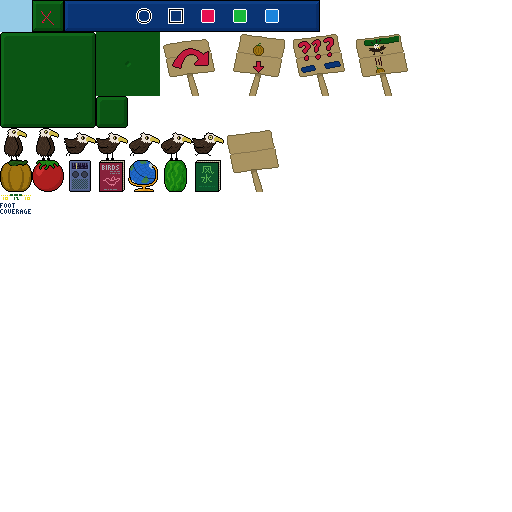
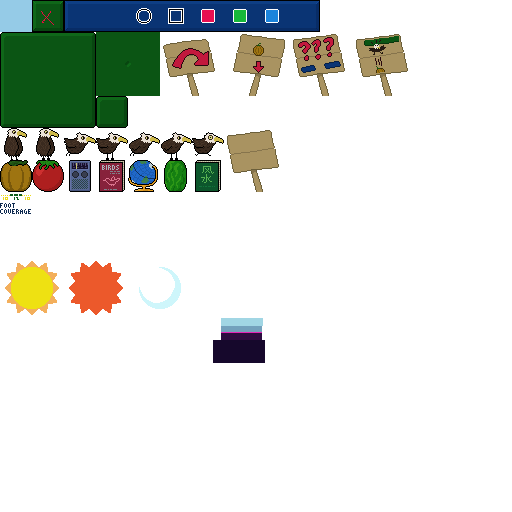
pretty astronomical phenomena

Changed region(s): [[0.0, 0.5, 0.375, 0.625], [0.4062, 0.5938, 0.5312, 0.7188]]

diff --git a/src/game/sky.c b/src/game/sky.c
@@ -1,0 +1,145 @@
+#include "iggle.h"
+#include "sky.h"
+
+#define SKY_DAY_RATE (1/500.0) /* day/sec. I want it possible to finish before sunset, if you push it. 500 = Sunset around 3:15, just beatable. */
+#define SUN_SPIN_RATE 2.0 /* rad/sec */
+
+/* Initialize star.
+ */
+ 
+static void star_init(struct star *star) {
+  star->x=rand()%FBW;
+  star->y=rand()%FBH;
+  // Pick a random time range in 1/256 of night.
+  int vlen=20+(rand()&0x7f);
+  int vp=rand()%(256-vlen);
+  star->ta=0.5+(double)vp/512.0;
+  star->fa=star->ta+0.005;
+  star->tz=0.5+(double)(vp+vlen)/512.0;
+  star->fz=star->tz-0.005;
+}
+
+/* Init.
+ */
+ 
+void sky_init(struct sky *sky) {
+  sky->dayp=0.100; // Start a little after sunrise.
+  struct star *star=sky->starv;
+  int i=STAR_COUNT;
+  for (;i-->0;star++) star_init(star);
+}
+
+/* Update.
+ */
+ 
+void sky_update(struct sky *sky,double elapsed) {
+
+  sky->dayp+=elapsed*SKY_DAY_RATE;
+  if (sky->dayp>=1.0) sky->dayp-=1.0;
+  
+  sky->sunt+=elapsed*SUN_SPIN_RATE;
+  if (sky->sunt>=M_PI) sky->sunt-=M_PI*2.0;
+}
+
+/* Sky color for a normalized time of day.
+ */
+ 
+static uint32_t sky_color(double p) {
+
+  // First, convert to 0..1=midnight..noon. We don't care which half we're in.
+  if (p>=0.75) p-=0.75;
+  else if (p>=0.25) p=0.75-p;
+  else p+=0.25;
+  p*=2.0;
+  
+  // Then apply this one-dimensional gradient:
+  const struct gstop { double p,r,g,b; } gstopv[]={
+    {0.000,0.251,0.169,0.384}, // midnight
+    {0.470,0.302,0.294,0.545}, // night
+    {0.500,0.753,0.506,0.753}, // daybreak
+    {0.530,0.451,0.631,0.737}, // day
+    {1.000,0.631,0.839,0.894}, // noon
+  };
+  const int gstopc=sizeof(gstopv)/sizeof(gstopv[0]);
+  const struct gstop *lo=gstopv+gstopc-1;
+  const struct gstop *hi=lo;
+  int i=0; for (;i<gstopc;i++) {
+    if (p<gstopv[i].p) {
+      hi=gstopv+i;
+      if (i) lo=hi-1; else lo=hi;
+      break;
+    }
+  }
+  double r,g,b;
+  if (lo==hi) { // At noon or midnight, we might have only a single endpoint.
+    r=lo->r;
+    g=lo->g;
+    b=lo->b;
+  } else { // Normally, we have (gstopp) as the low bound and (gstopp+1) as the high bound.
+    double hiweight=(p-lo->p)/(hi->p-lo->p);
+    if (hiweight<0.0) hiweight=0.0;
+    else if (hiweight>1.0) hiweight=1.0;
+    double loweight=1.0-hiweight;
+    r=lo->r*loweight+hi->r*hiweight;
+    g=lo->g*loweight+hi->g*hiweight;
+    b=lo->b*loweight+hi->b*hiweight;
+  }
+
+  // Finally, quantize and pack.
+  int ri=(int)(r*255.0); if (ri<0) ri=0; else if (ri>0xff) ri=0xff;
+  int gi=(int)(g*255.0); if (gi<0) gi=0; else if (gi>0xff) gi=0xff;
+  int bi=(int)(b*255.0); if (bi<0) bi=0; else if (bi>0xff) bi=0xff;
+  return (ri<<24)|(gi<<16)|(bi<<8)|0xff;
+}
+
+/* Sun or moon's position in screen pixels, from dayp in 0..1/2.
+ * Returns the center of the body.
+ */
+ 
+static void sky_get_sun_position(int *x,int *y,double p) {
+  // Have them follow a circular path (deasil), diameter a bit less than the screen width, and offset down so the vertical center is well off-screen.
+  double t=p*M_PI*2.0;
+  double r=(FBW-(NS_sys_tilesize<<1))*0.5;
+  *x=(FBW>>1)+(int)(cos(t)*r);
+  *y=FBH+(NS_sys_tilesize)-(int)(sin(t)*r);
+}
+
+/* Render.
+ */
+ 
+void sky_render(struct sky *sky) {
+
+  /* Background.
+   */
+  graf_draw_rect(&g.graf,0,0,FBW,FBH,sky_color(sky->dayp));
+  
+  /* Stars.
+   */
+  if (sky->dayp>=0.500) {
+    const uint32_t stargb=0xffff0000;
+    struct star *star=sky->starv;
+    int i=STAR_COUNT;
+    for (;i-->0;star++) {
+      if (sky->dayp<=star->ta) continue;
+      if (sky->dayp>=star->tz) continue;
+      uint8_t alpha=0xff;
+      if (sky->dayp<star->fa) { // fade in
+        alpha=(int)((255.0*(sky->dayp-star->ta))/(star->fa-star->ta));
+      } else if (sky->dayp>star->fz) { // fade out
+        alpha=(int)((255.0*(star->tz-sky->dayp))/(star->tz-star->fz));
+      }
+      graf_draw_rect(&g.graf,star->x,star->y,1,1,stargb|alpha);
+    }
+  }
+  
+  /* Sun or moon.
+   */
+  if (sky->dayp>=0.500) {
+    int dstx,dsty; sky_get_sun_position(&dstx,&dsty,sky->dayp-0.500);
+    graf_draw_decal(&g.graf,g.texid_tiles,dstx-NS_sys_tilesize,dsty-NS_sys_tilesize,NS_sys_tilesize*4,NS_sys_tilesize*8,NS_sys_tilesize*2,NS_sys_tilesize*2,0);
+  } else {
+    int dstx,dsty; sky_get_sun_position(&dstx,&dsty,sky->dayp);
+    graf_draw_mode7(&g.graf,g.texid_tiles,dstx,dsty,NS_sys_tilesize*2,NS_sys_tilesize*8,NS_sys_tilesize*2,NS_sys_tilesize*2,1.0,1.0,-sky->sunt,1);
+    graf_draw_mode7(&g.graf,g.texid_tiles,dstx,dsty,0,NS_sys_tilesize*8,NS_sys_tilesize*2,NS_sys_tilesize*2,1.0,1.0,sky->sunt,1);
+  }
+}

diff --git a/src/game/iggle_play.c b/src/game/iggle_play.c
@@ -1,4 +1,5 @@
 #include "iggle.h"
+#include "sky.h"
 
 /* On completion, it has to actually *stay* complete for so long.
  */
@@ -12,6 +13,7 @@ struct play {
   int cmdc;
   double complete_clock;
   double play_time; // For scoring purposes. All levels.
+  struct sky sky;
 } play={0};
 
 /* End.
@@ -25,6 +27,7 @@ void play_end() {
  
 int play_begin() {
   memset(&play,0,sizeof(play));
+  sky_init(&play.sky);
   int mapid=1;
   if (g.advance_to_last_map) mapid=g.last_map_id;
   if (play_load_map(mapid)<0) return -1;
@@ -68,6 +71,7 @@ static int play_is_complete() {
  */
  
 void play_update(double elapsed,int input,int pvinput) {
+  sky_update(&play.sky,elapsed);
 
   if ((input&EGG_BTN_AUX1)&&!(pvinput&EGG_BTN_AUX1)) {
     play_load_map(play.mapid);
@@ -124,7 +128,8 @@ void play_render() {
 
   /* Background.
    */
-  graf_draw_rect(&g.graf,0,0,FBW,FBH,0x80a0c0ff);
+  sky_render(&play.sky);
+  //return;
   
   /* Terrain.
    */

diff --git a/src/game/sky.h b/src/game/sky.h
@@ -1,0 +1,25 @@
+/* sky.h
+ * Owned only by "play".
+ * Produces the scene's background.
+ */
+ 
+#ifndef SKY_H
+#define SKY_H
+
+#define STAR_COUNT 256
+
+struct sky {
+  double dayp; // Time of day in 0..1. Sunrise at 0, sunset at 0.5.... damn we ought to keep time like this in real life.
+  double sunt;
+  struct star {
+    int x,y;
+    double ta,tz; // What times are we visible? They should center around midnight (0.75).
+    double fa,fz; // Within (ta..tz), the range of time when we are fully opaque.
+  } starv[STAR_COUNT];
+};
+
+void sky_init(struct sky *sky);
+void sky_update(struct sky *sky,double elapsed);
+void sky_render(struct sky *sky);
+
+#endif

diff --git a/README.md b/README.md
@@ -40,13 +40,13 @@ Help the eagle put all the things in their place by flapping his wings with the 
 - - [x] Music.
 - - [x] Sound effects.
 - - [x] Title banner has got to go. Try something hand-drawn.
-- - [ ] Itch page.
+- - [x] Itch page.
 - - [x] Have an arguably complete game by EOD. I don't want to do a lot during the week.
-- - [ ] Submit to jam? We can keep revising once submitted, I believe.
+- - [x] Submit to jam? We can keep revising once submitted, I believe.
 - - [x] Swap maps 5 and 6; 5 is more difficult.
-- - [ ] Ending is kind of abrupt.
+- - [x] Ending is kind of abrupt.
 - - - [x] Something more "You Win!" than "Game Over", make it positive.
-- - - [ ] Can we style the last map to make it feel more like a finale?
+- - - [x] Can we style the last map to make it feel more like a finale? ...the new Level 7 is really tricky, I think that's good enough.
 - Mon 2025-03-03
 - Tue 2025-03-04
 - Wed 2025-03-05
@@ -56,5 +56,6 @@ Help the eagle put all the things in their place by flapping his wings with the 
 Stretch goals, whenever:
 - [ ] Minicomic.
 - [ ] Ridiculously excessive background graphics. Thinking, clouds moving and parting, trees blowing in the wind, lights going on and off in the distant city...
-- [ ] Hand-drawn graphics for the foreground? Might look cool...
-- [ ] Even if not hand-drawn, a rotating sprite for the wing would probly be a good touch.
+- - Got sun, moon, and stars. We could still do clouds, terrain, what-have-you...
+- [x] Hand-drawn graphics for the foreground? Might look cool... ...nah
+- [x] Even if not hand-drawn, a rotating sprite for the wing would probly be a good touch. ...nah, I like it as is
